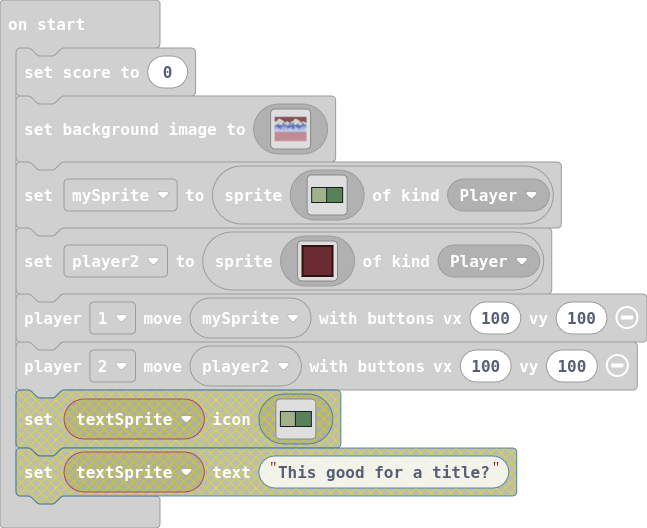
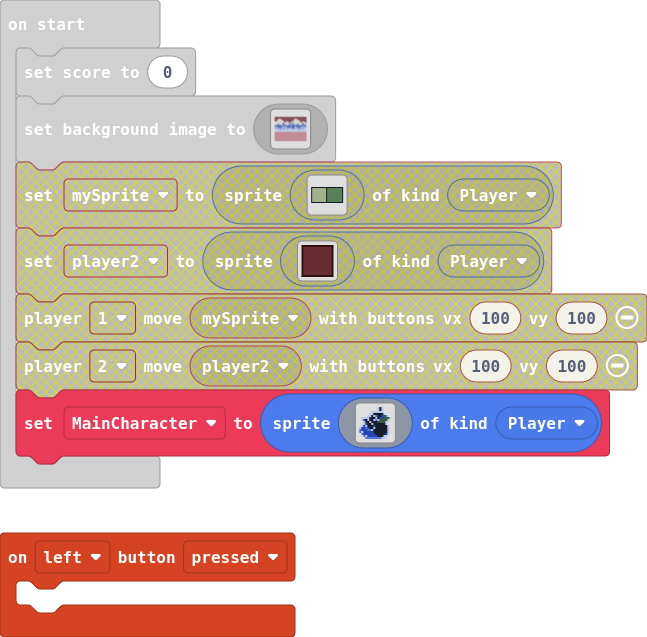
Update pxt.json, main.blocks, main.ts, images.g.jres, images.g.ts

diff --git a/main.ts b/main.ts
@@ -1,6 +1,23 @@
+controller.left.onEvent(ControllerButtonEvent.Pressed, function () {
+	
+})
 info.setScore(0)
 scene.setBackgroundImage(assets.image`cityscape`)
-let mySprite = sprites.create(assets.image`myImage0`, SpriteKind.Player)
-let player2 = sprites.create(assets.image`myImage1`, SpriteKind.Player)
-controller.player1.moveSprite(mySprite, 100, 100)
-controller.player2.moveSprite(player2, 100, 100)
+let MainCharacter = sprites.create(img`
+    . . . . . . . . . b 5 b . . . . 
+    . . . . . . . . . b 5 b . . . . 
+    . . . . . . b b b b b b . . . . 
+    . . . . . b b 5 5 5 5 5 b . . . 
+    . . . . b b 5 b c 5 5 d 4 c . . 
+    . b b b b 5 5 5 b f d d 4 4 4 b 
+    . b d 5 b 5 5 b c b 4 4 4 4 b . 
+    . . b 5 5 b 5 5 5 4 4 4 4 b . . 
+    . . b d 5 5 b 5 5 5 5 5 5 b . . 
+    . b d b 5 5 5 d 5 5 5 5 5 5 b . 
+    b d d c d 5 5 b 5 5 5 5 5 5 b . 
+    c d d d c c b 5 5 5 5 5 5 5 b . 
+    c b d d d d d 5 5 5 5 5 5 5 b . 
+    . c d d d d d d 5 5 5 5 5 d b . 
+    . . c b d d d d d 5 5 5 b b . . 
+    . . . c c c c c c c c b b . . . 
+    `, SpriteKind.Player)

diff --git a/images.g.ts b/images.g.ts
@@ -348,7 +348,8 @@ a a a a a a a a a a a a a a a a
 
     helpers._registerFactory("song", function(name: string) {
         switch(helpers.stringTrim(name)) {
-
+            case "song1":
[1 lines of base64/hex data omitted]
         }
         return null;
     })
